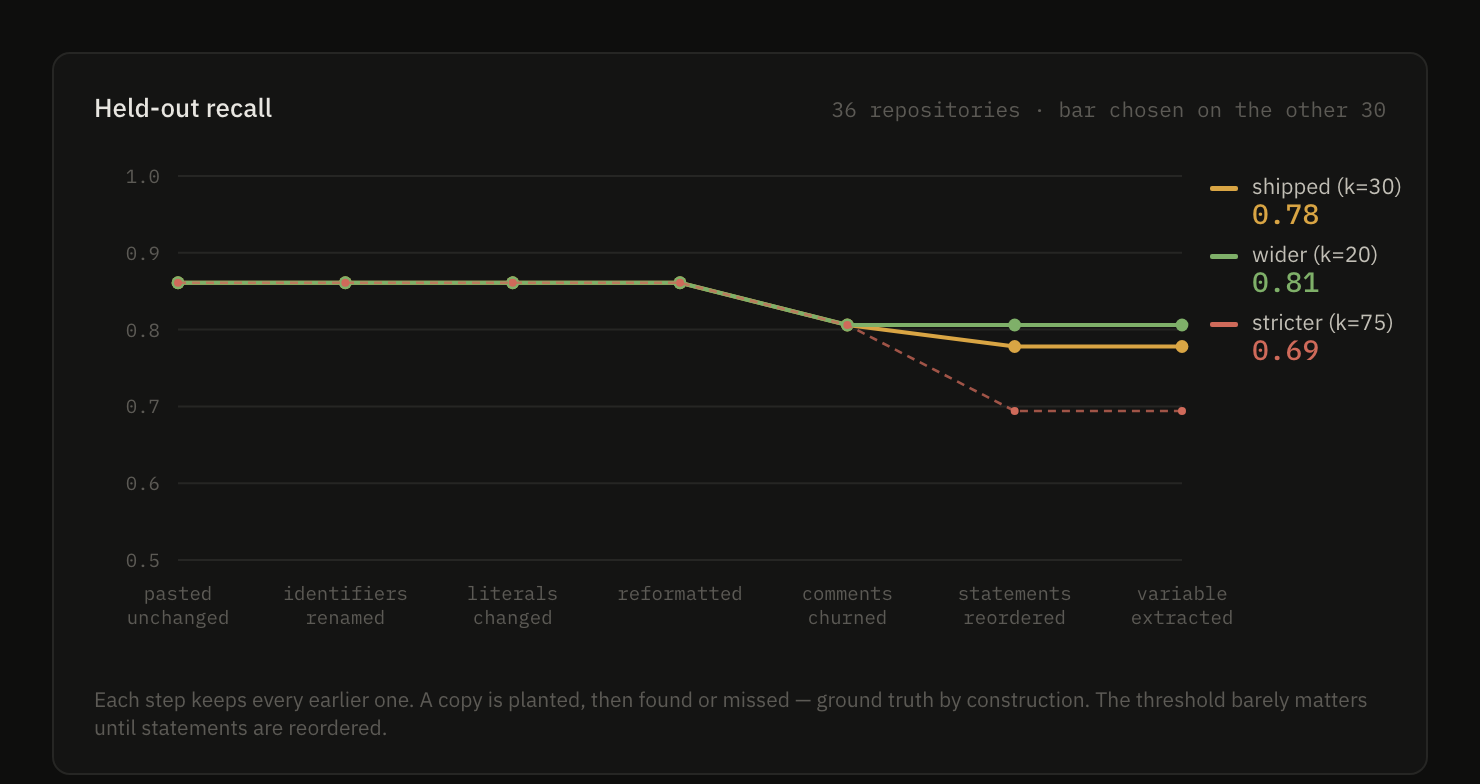
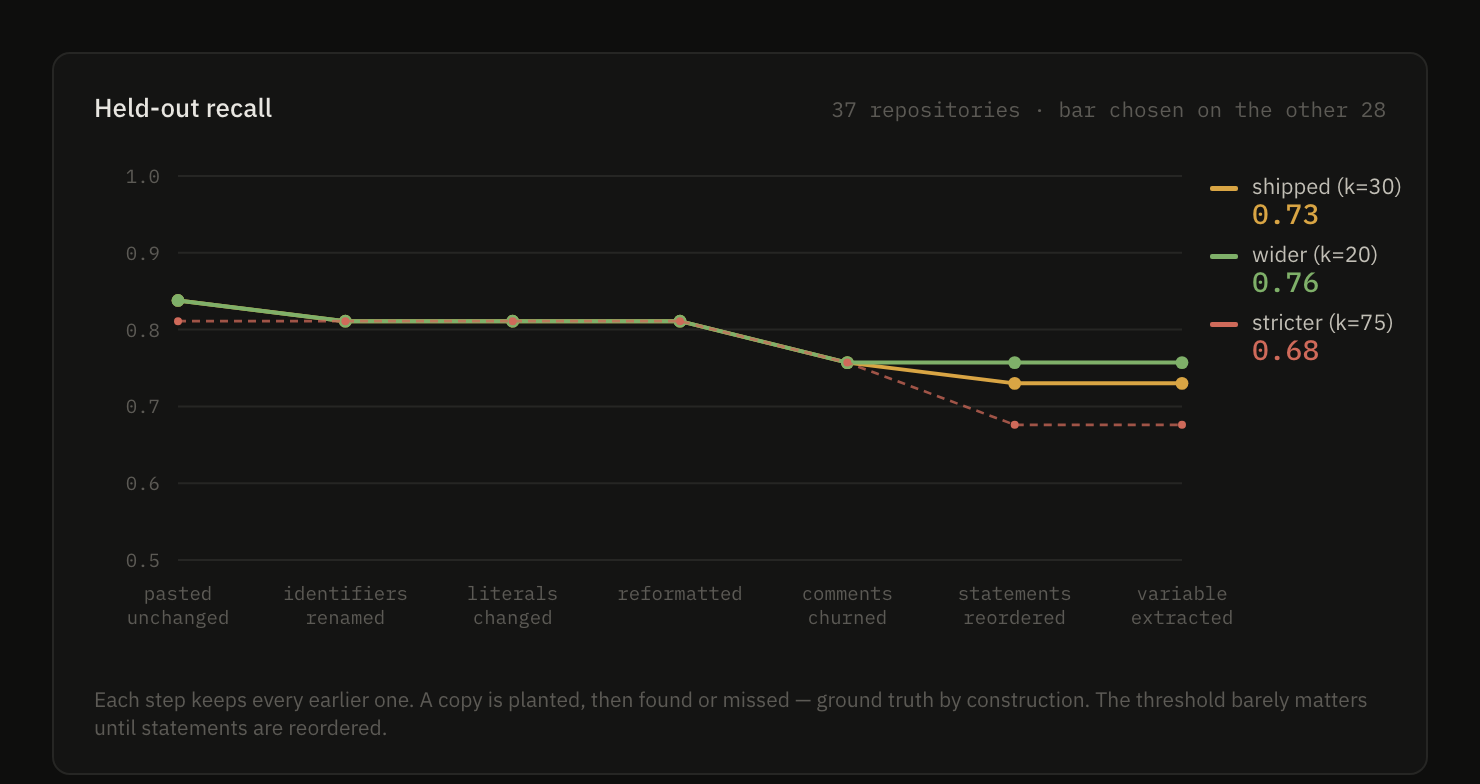
Regenerate the recall chart, and fix the badges
The chart was dropped when it went stale against the corrected numbers.
Regenerated from calibration/results/recall.json, so it now shows 37
held-out repositories and the three bars separating only once statements
are reordered.

The badges were not broken so much as pointing at a package that did not
exist yet; npm/v and npm/l both 404 before the first publish. Given a
consistent style, and the bundlephobia size badge swapped for npm's own
unpacked-size — bundlephobia answered "rate limited by upstream service"
on the first try, which is not something to put on a front page.

diff --git a/README.md b/README.md
@@ -2,9 +2,10 @@
 
 Check whether code already exists in a repository before writing it. Matching ignores identifier names, literal values, formatting and comments, so a copy that shares no text with the original is still found.
 
-[![npm](https://img.shields.io/npm/v/seenit)](https://www.npmjs.com/package/seenit)
-[![node](https://img.shields.io/node/v/seenit)](https://nodejs.org)
-[![license](https://img.shields.io/npm/l/seenit)](https://github.com/arjunmukeshh/seenit/blob/main/LICENSE)
+[![npm](https://img.shields.io/npm/v/seenit?style=flat-square&color=0b7285)](https://www.npmjs.com/package/seenit)
+[![node](https://img.shields.io/node/v/seenit?style=flat-square&color=0b7285)](https://nodejs.org)
+[![size](https://img.shields.io/npm/unpacked-size/seenit?style=flat-square&color=0b7285)](https://www.npmjs.com/package/seenit)
+[![license](https://img.shields.io/npm/l/seenit?style=flat-square&color=0b7285)](https://github.com/arjunmukeshh/seenit/blob/main/LICENSE)
 
 ## Install
 
@@ -109,6 +110,8 @@ Measured by injection on 65 npm repositories: a real function is lifted, transfo
 | + comments churned | 0.76 | 0.76 | 0.76 |
 | + statements reordered | 0.76 | **0.73** | 0.68 |
 | + subexpression extracted | 0.76 | 0.73 | 0.68 |
+
+<img src="https://raw.githubusercontent.com/arjunmukeshh/seenit/main/docs/media/recall.png" alt="Line chart of held-out recall across seven cumulative transformations, on 37 repositories. All three thresholds sit together near 0.84 through reformatting, dip at comment churn, then separate once statements are reordered: k=20 ends at 0.76, k=30 at 0.73, k=75 at 0.68." width="740">
 
 n=37 held out, 95% CI [0.57, 0.85] at the shipped bar and hardest level.
 
